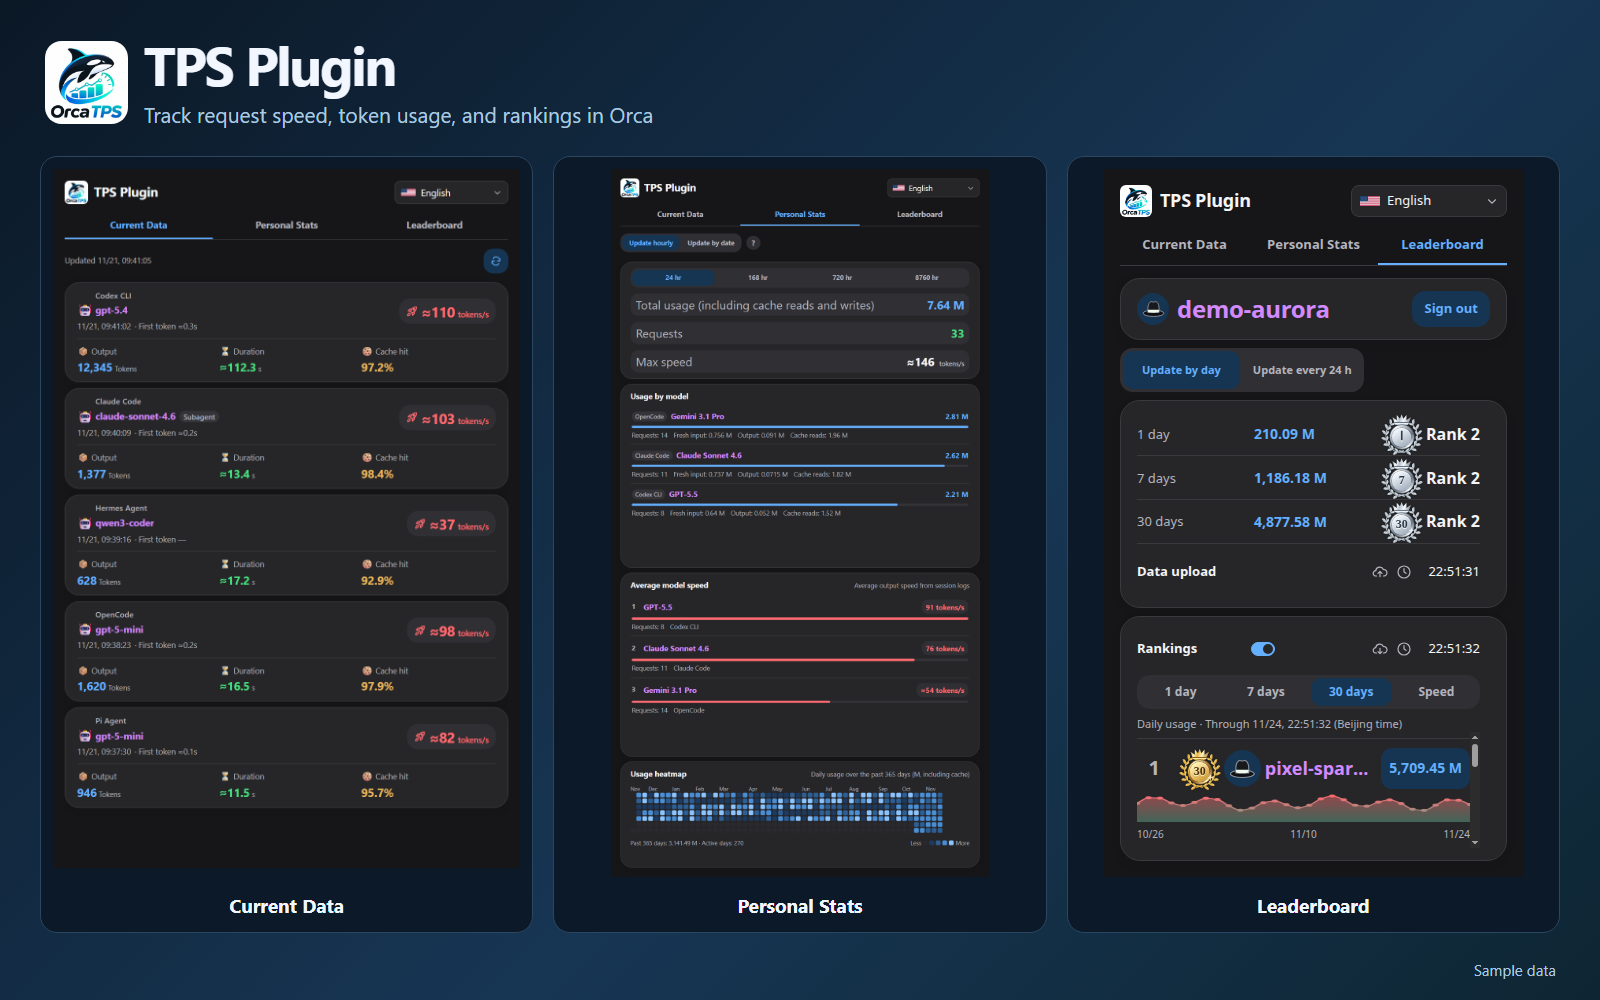
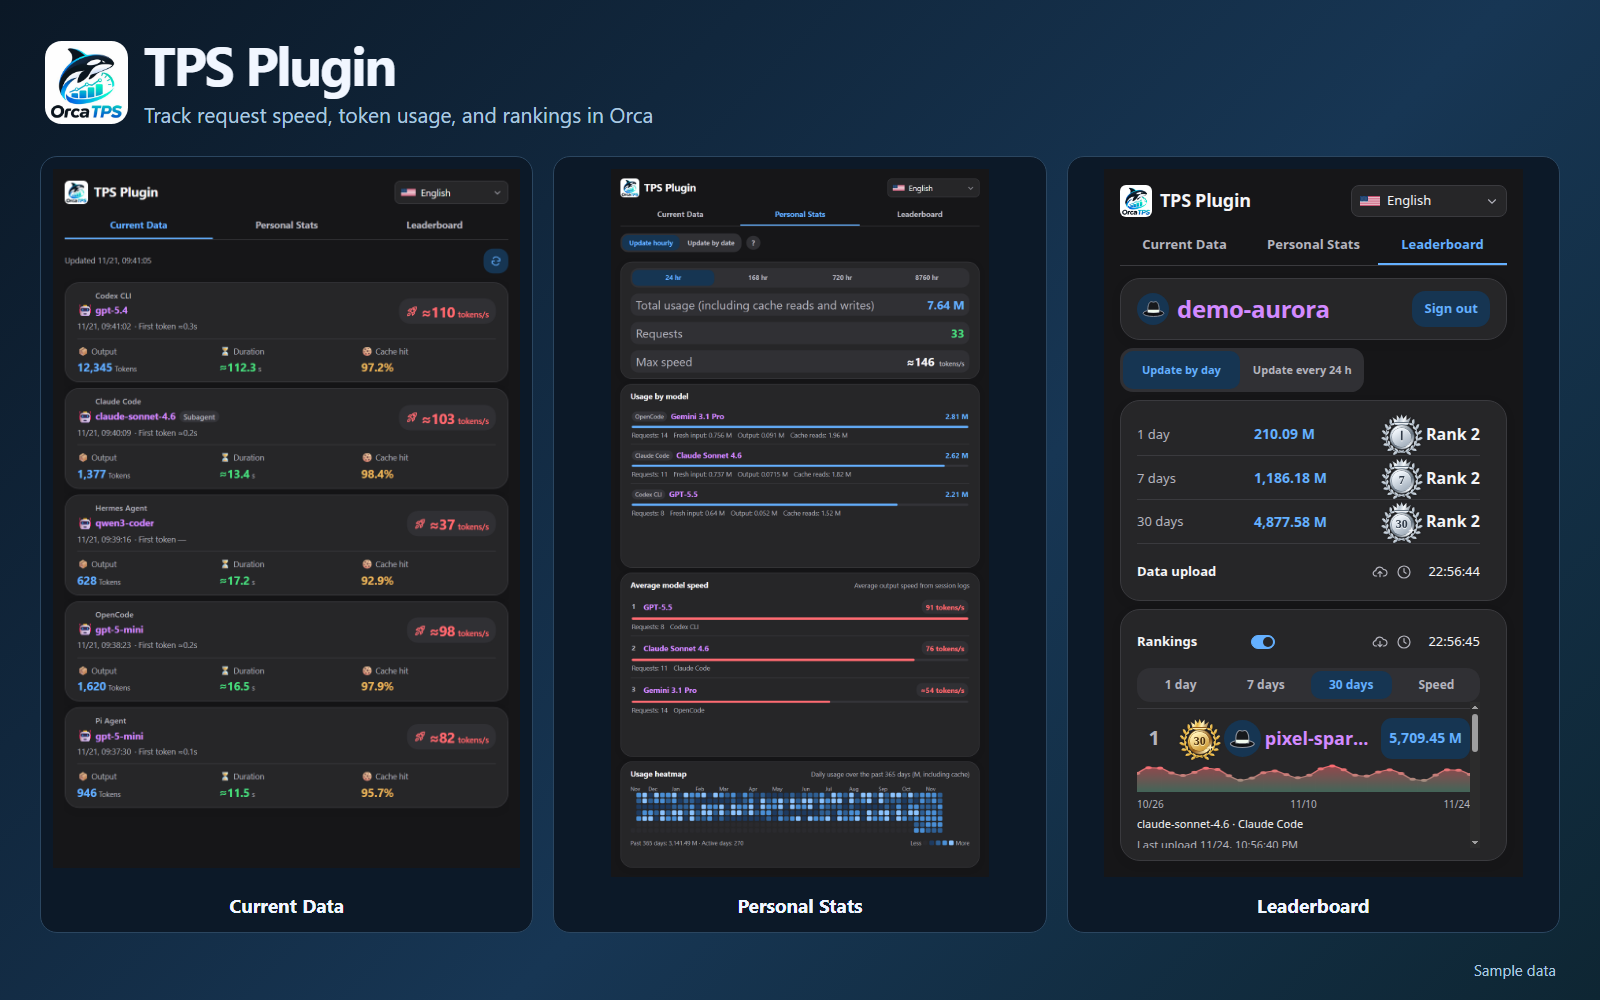
feat: add speed medals and simplify leaderboard layout

diff --git a/src/panel.html b/src/panel.html
@@ -155,7 +155,7 @@
     #ladder-controls, .ladder-personal-data { flex: none; }
     #ladder-controls:has(#ladder-account:not([hidden])) { block-size: 62px; overflow-y: auto; scrollbar-width: thin; }
     .ladder-personal-data, .ladder-rank-card { scrollbar-width: thin; scrollbar-gutter: stable; }
-    .ladder-personal-data { block-size: 208px; overflow-y: auto; }
+    .ladder-personal-data { max-block-size: 208px; padding-block-end: 8px; overflow-y: auto; }
     .ladder-rank-card { display: flex; flex: 1; flex-direction: column; min-block-size: 224px; overflow: hidden; }
     #ladder-ranking-notice { overflow-y: auto; scrollbar-width: thin; }
     #ladder-ranking-content { display: flex; flex: 1; flex-direction: column; min-block-size: 0; }
@@ -390,11 +390,10 @@
       font-size: 14px; line-height: 1.15; font-weight: 750; text-align: end; overflow-wrap: anywhere; max-width: 15ch;
     }
     .ladder-time { grid-area: time; color: var(--muted); font-size: 11px; }
-    .ladder-rows .ladder-speed-row { --ladder-row-size: 32px; }
+    .ladder-rows .ladder-speed-row:not(:has(.ladder-medal)) { --ladder-row-size: 32px; }
     .ladder-speed-row .ladder-total { white-space: nowrap; }
     .ladder-speed-row .ladder-recent-meta { margin-top: 0; }
     .ladder-speed-tokens { flex: none; color: var(--muted); white-space: nowrap; }
-    .ladder-recent-caption { margin: 7px 0 0; color: var(--muted); font-size: 11px; }
     .ladder-recent { grid-area: recent; min-width: 0; }
     .ladder-chart {
       display: block; width: 100%; height: 30px;
@@ -536,8 +535,12 @@
       }
       .ladder-toolbar-field { gap: 3px; }
       .ladder-rows li { --ladder-row-gap: 6px; }
+      .ladder-rows .ladder-speed-row { --ladder-row-gap: 4px; }
+      .ladder-speed-row .ladder-rank { min-width: 2ch; font-size: 16px; }
+      .ladder-speed-row .ladder-avatar { --ladder-row-avatar-size: 22px; }
       .war-totals { gap: 6px; }
       .ladder-total { padding-inline: 6px; font-size: 12px; }
+      .ladder-speed-row .ladder-total { padding-inline: 4px; font-size: 11px; }
     }
     @media (max-width: 280px) {
       .war-period-tabs { grid-template-columns: minmax(0, .85fr) repeat(2, minmax(0, 1fr)) minmax(0, 1.15fr); gap: 2px; }
@@ -684,7 +687,6 @@
             <button class="war-tab" type="button" data-rank-days="0" aria-pressed="false"><span data-i18n="leaderboard-speed-tab"></span></button>
           </div>
           <p class="ladder-note" id="ladder-freshness" role="status" data-localized-text hidden></p>
-          <p class="ladder-recent-caption" id="ladder-recent-caption" data-i18n="leaderboard-five-minute-usage" hidden></p>
           <div class="ladder-ranking-scroll" role="region" tabindex="0" aria-labelledby="ladder-rank-title">
             <ol class="ladder-rows" id="ladder-rows" data-i18n-aria-label="daily-usage-rankings"></ol>
             <p class="ladder-note" id="ladder-empty" data-localized-text hidden><span data-i18n="empty-today"></span></p>
@@ -1580,6 +1582,7 @@
         { days: 1, mark: 'Ⅰ', title: 'last-twenty-four-hours' }, { days: 7, mark: '7', title: 'seven-day-period' },
         { days: 30, mark: '30', title: 'thirty-day-period' }
       ];
+      const speedPeriod = { days: 0, mark: 'S', title: 'leaderboard-speed-tab' };
       const podium = ['gold-medal', 'silver-medal', 'bronze-medal'];
       const messages = {
         unavailable: 'leaderboard-unavailable', github_unavailable: 'github-login-unavailable',
@@ -1986,7 +1989,7 @@
         latestPulses = new Map(rankDays === 1 ? rows.map(row => [row.username, row.recent?.points.at(-1)?.submittedAt ?? -Infinity]) : []);
         const signature = JSON.stringify([rankingMode, rankDays, ranking?.windowStart, username, rows]);
         if (signature === drawnRows) return;
-        const period = periods.find(entry => entry.days === rankDays);
+        const period = speedBoard ? speedPeriod : periods.find(entry => entry.days === rankDays);
         drawnRows = signature;
         const keyOf = row => JSON.stringify([rankingMode, rankDays, ranking?.windowStart, username === row.username, row]);
         rankingNodes = updateList(element('rows'), rows, rankingNodes, keyOf, row => {
@@ -2160,9 +2163,6 @@
         const speedBoard = rankDays === 0;
         element('rows').setAttribute('aria-label', t(speedBoard ? 'leaderboard-speed-tab' : 'period-rankings'));
         element('empty').textContent = t('empty-rankings');
-        element('recent-caption').textContent = ranking?.cutoffAt === undefined ? usageChartLabel()
-          : `${usageChartLabel()} · ${t('leaderboard-cutoff', leaderboardTime(ranking.cutoffAt))}`;
-        element('recent-caption').hidden = speedBoard || !ranking;
         const username = signedIn ? account.username : '';
         renderRows(ranking?.rows ?? [], username, ranking);
         element('empty').hidden = !ranking || rankingNodes.size > 0;

diff --git a/README.md b/README.md
@@ -56,14 +56,14 @@ Open **TPS Plugin** in Orca’s right sidebar to switch between **Current Data**
 - View usage rankings in M. Day mode uses Beijing calendar days for today, the last 7 days, and the last 30 days. Hour mode counts the last 24, 168, and 720 completed hours. The service refreshes all seven boards together every three seconds by default. The top three get gold, silver, and bronze medals.
 - Use the switch next to Rankings to control leaderboard viewing. Turning it off hides the rankings and stops fetching them. The plugin remembers your choice. Guests can view rankings.
 - The shortest usage window shows the latest five minutes of usage and average generation speed. Missing or invalid values in this chart display as zero. The longer windows show daily usage. Every usage board shows the most-used model, Harness, and latest upload time.
-- The Speed tab ranks up to 100 GitHub accounts by their best average generation speed from a qualifying 10-second interval in the 24 hours before scoring. Each account appears once across all its devices. An interval qualifies with more than 500 new tokens and a valid speed. The winning interval supplies the time, most-used model, Harness, and full count of new tokens, such as `1,250,000 tokens`.
+- The Speed tab ranks up to 100 GitHub accounts by their best average generation speed from a qualifying 10-second interval in the 24 hours before scoring. Each account appears once across all its devices. The top three earn gold, silver, and bronze medals marked `S`. An interval qualifies with more than 500 new tokens and a valid speed. The winning interval supplies the time, most-used model, Harness, and full count of new tokens, such as `1,250,000 tokens`.
 - Each curve uses a continuous gradient from green at zero to red at the highest point. The fill uses the same gradient at 50% opacity.
 - Sign in with GitHub to participate. Each account combines the latest usage totals from up to four recently active devices. Relayed copies of the same device report count once. If an account misses a round, its score stays on the board until a new report updates it or other scores push it out. Avatars load from GitHub.
 - While signed in, the Tokens Manager uploads every three seconds by default. Use the toolbar icons to upload or download manually. Each icon spins during its transfer. The times show the last successful upload and download.
 
 <p align="center">
   <a href="./assets/readme/en/leaderboard.png" title="View full-size screenshot">
-    <img src="./assets/readme/en/leaderboard.webp" width="266" alt="English leaderboard with a 30-day usage curve, the cutoff time, and the Speed tab">
+    <img src="./assets/readme/en/leaderboard.webp" width="266" alt="English leaderboard with a 30-day usage curve and the Speed tab">
   </a>
 </p>
 
